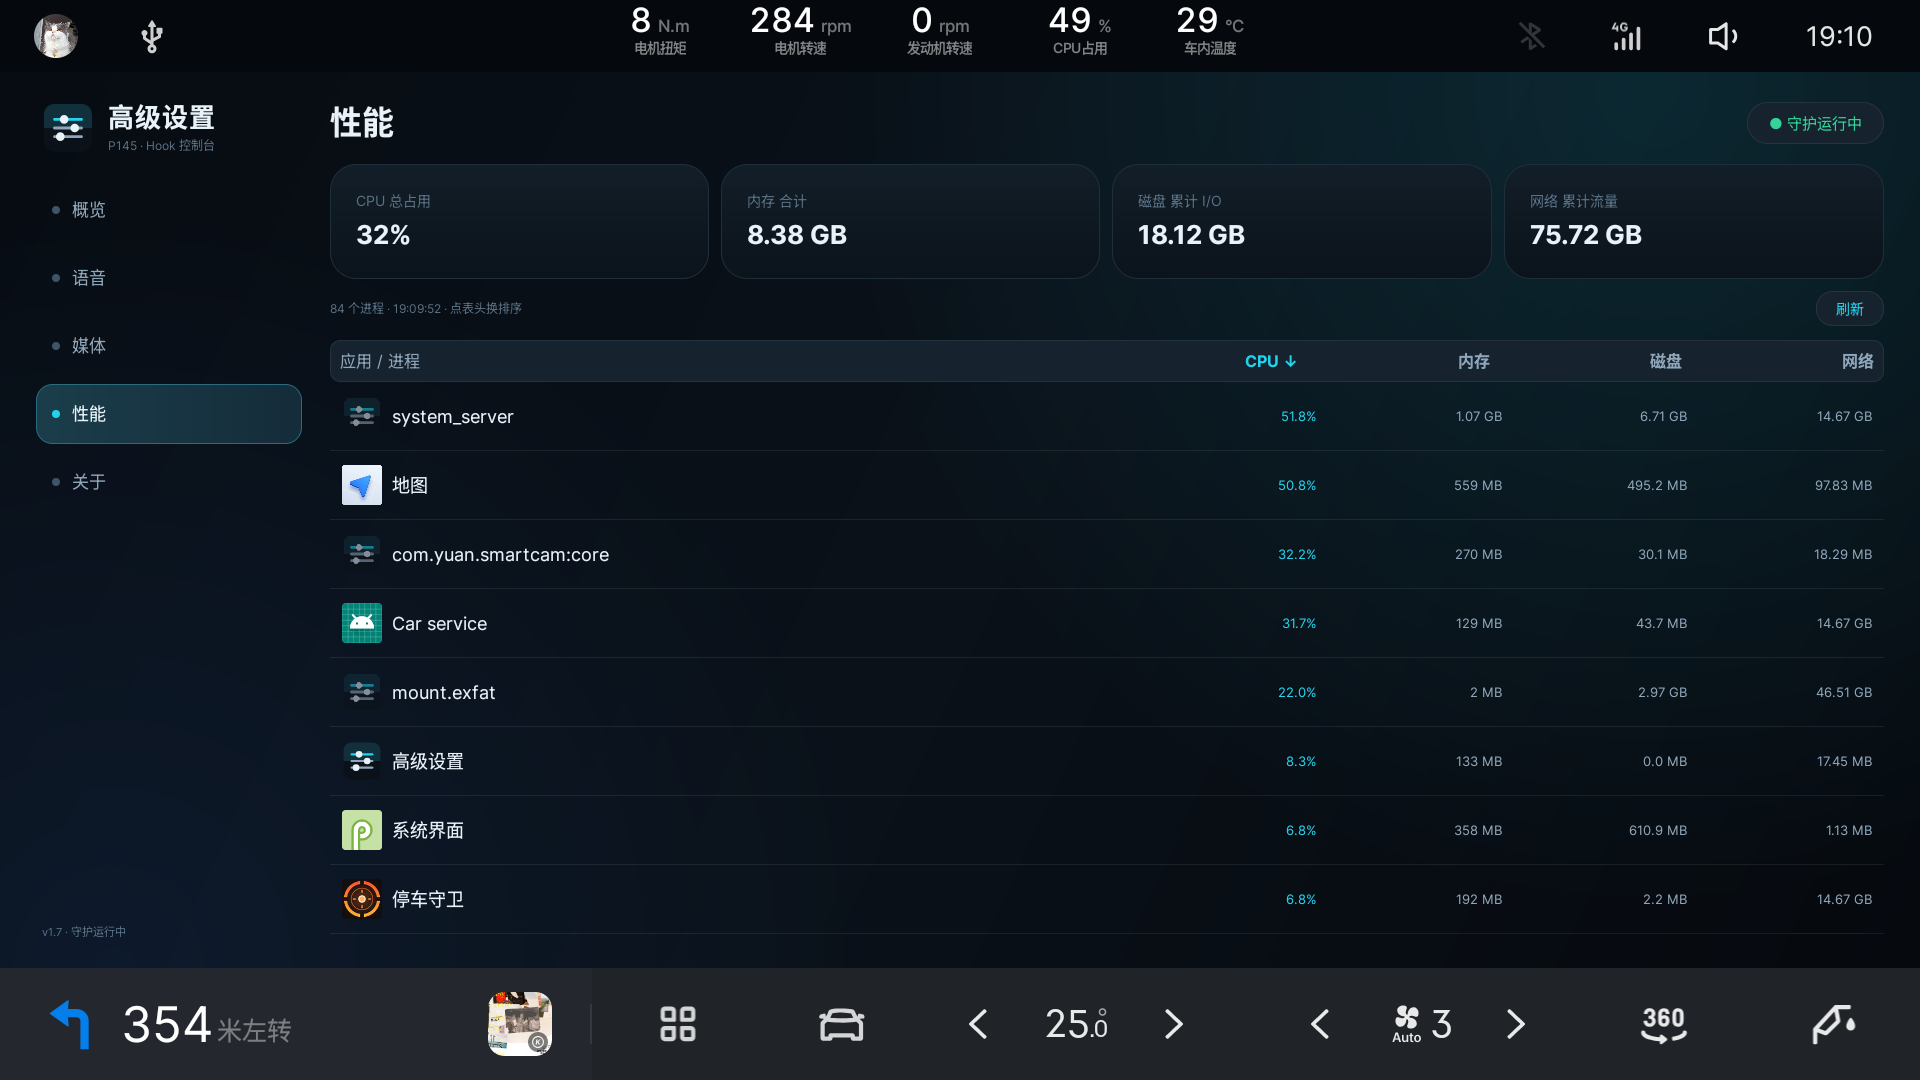
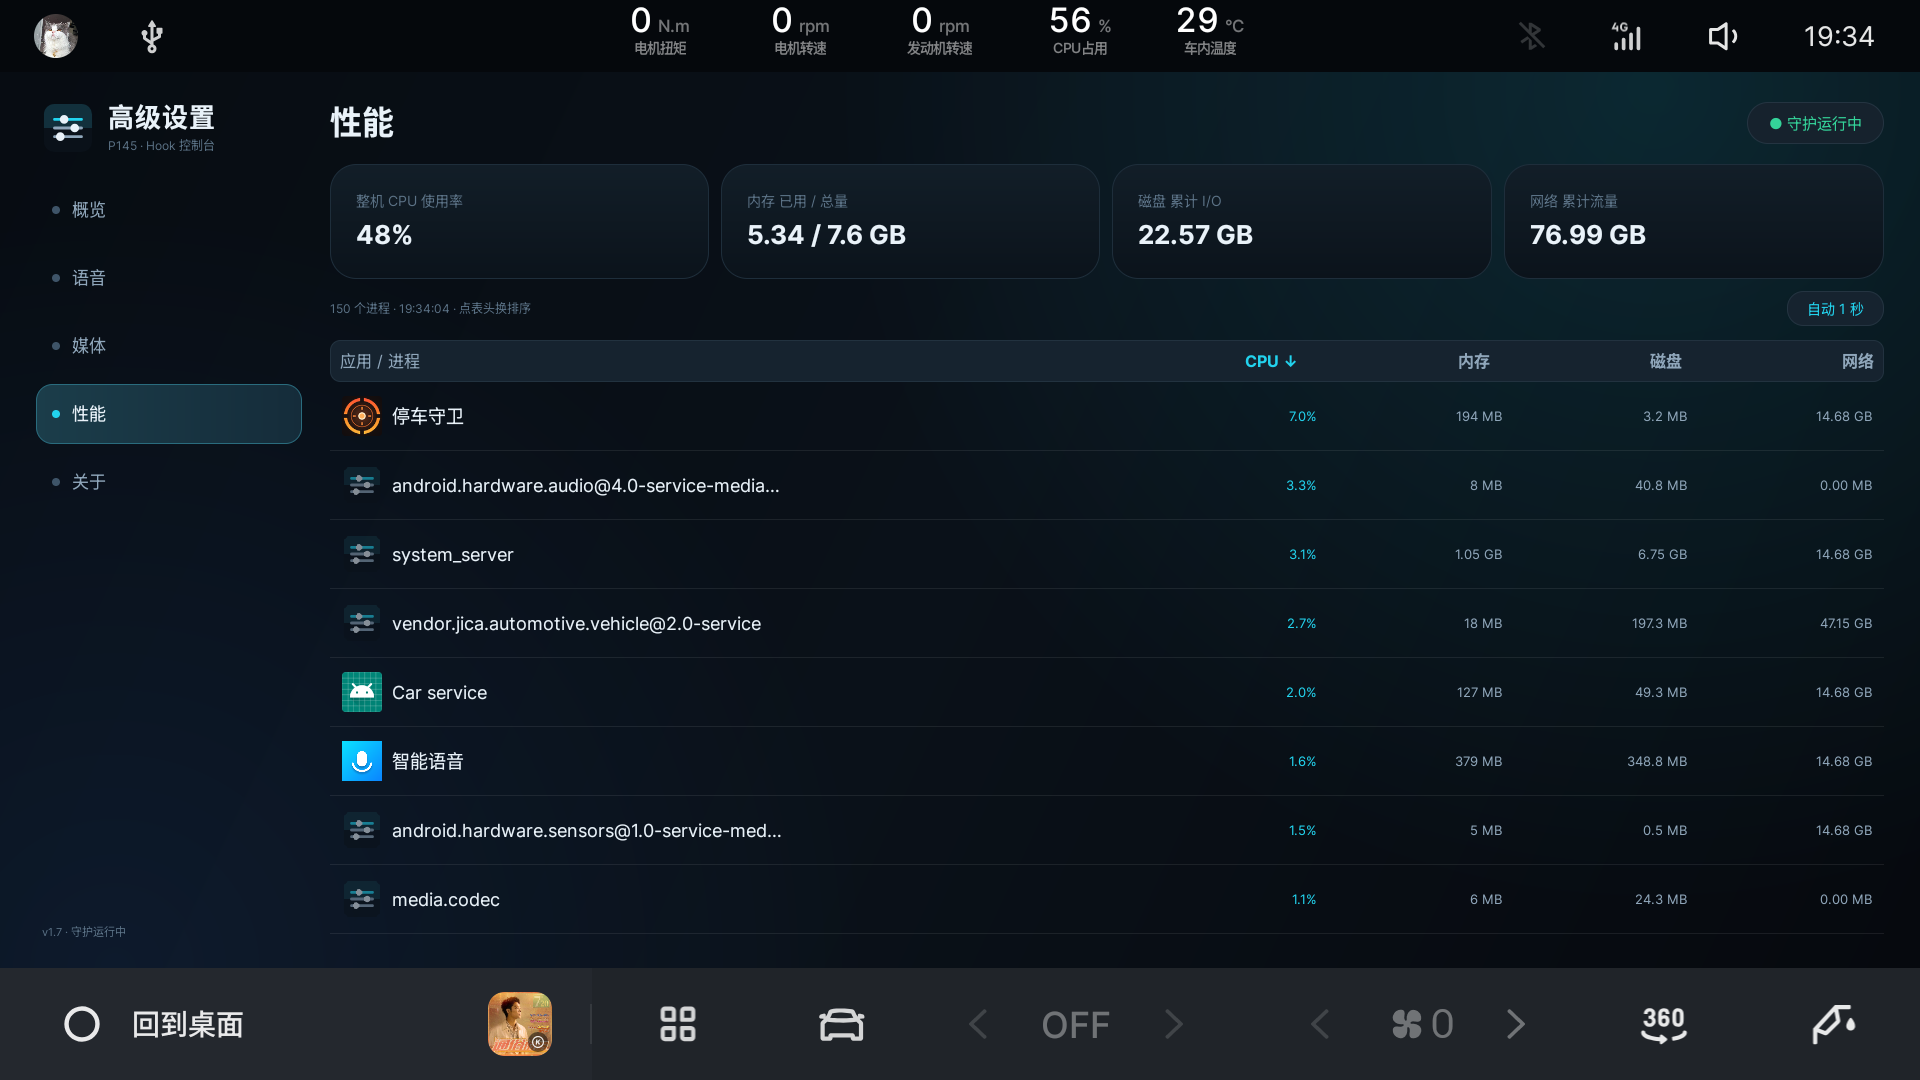
fix(perf): CPU 总量改用 /proc/stat 整机口径，内存卡显示已用/总量
原来的「CPU 总占用」= Σ(进程 CPU%) ÷ 核数，漏掉内核线程/中断/iowait，
比系统状态栏低一半。改为直接算 (Δtotal-Δidle)/Δtotal，与 EVCC/状态栏同口径；
实测 48% vs 状态栏 56%（采样瞬间不同）。

内存卡改用 /proc/meminfo 的 MemTotal / MemAvailable，显示 5.34 / 7.6 GB。
另：刷新按钮改成自动刷新档位（1s→2s→3s→关）；TERM=dumb 修掉 ps 的 ANSI 转义。

diff --git a/src/com/p145/advancedsettings/core/PerfMonitor.java b/src/com/p145/advancedsettings/core/PerfMonitor.java
@@ -30,7 +30,7 @@ public final class PerfMonitor {
 
     public static final String TAG = "P145ADV";
     public static final String SCRIPT = "perf_collect.sh";
-    private static final int SCRIPT_VER = 1;
+    private static final int SCRIPT_VER = 4;   // 4: TERM=dumb 去 ANSI
 
     /** 四个排行维度 */
     public enum Dim {
@@ -47,7 +47,7 @@ public final class PerfMonitor {
         public int pid;
         public int uid = -1;
         public String name = "";
-        public double cpu;      // %
+        public double cpu;      // 占整机 CPU 的百分比（所有核合计 = 100%）
         public double memMb;    // MB
         public double diskMb;   // MB（累计读写）
         public double netMb;    // MB（累计收发）
@@ -83,6 +83,11 @@ public final class PerfMonitor {
         public long at;
         public int processCount;
         public int ncpu = 4;
+        /** 整机 CPU 使用率（与系统状态栏 / EVCC 同口径） */
+        public double machineCpu;
+        /** 物理内存总量 / 已用（MB） */
+        public double memTotalMb;
+        public double memUsedMb;
         public final List<AppUsage> apps = new ArrayList<>();
         public String error = "";
 
@@ -188,7 +193,7 @@ public final class PerfMonitor {
             snap.error = "无输出";
             return;
         }
-        long total1 = 0, total2 = 0;
+        long total1 = 0, total2 = 0, idle1 = 0, idle2 = 0;
         Map<Integer, AppUsage> map = new HashMap<>();
         Map<Integer, Long> j2 = new HashMap<>();
         Map<Integer, Long> uidNet = new HashMap<>();
@@ -199,10 +204,17 @@ public final class PerfMonitor {
                 continue;
             }
             try {
-                if (line.startsWith("T ")) {
+                if (line.startsWith("M ")) {
+                    String[] p = line.split("\\s+");
+                    double totalKb = Long.parseLong(p[1]);
+                    double availKb = Long.parseLong(p[2]);
+                    snap.memTotalMb = totalKb / 1024.0;
+                    snap.memUsedMb = (totalKb - availKb) / 1024.0;
+                } else if (line.startsWith("T ")) {
                     String[] p = line.split("\\s+");
                     total1 = Long.parseLong(p[1]);
-                    snap.ncpu = Integer.parseInt(p[2]);
+                    idle1 = Long.parseLong(p[2]);
+                    snap.ncpu = Integer.parseInt(p[3]);
                 } else if (line.startsWith("A ")) {
                     // A pid user jiffies rss name...
                     String[] p = line.split("\\s+", 6);
@@ -225,6 +237,7 @@ public final class PerfMonitor {
                 } else if (line.startsWith("Z ")) {
                     String[] p = line.split("\\s+");
                     total2 = Long.parseLong(p[1]);
+                    idle2 = Long.parseLong(p[2]);
                 } else if (line.startsWith("J ")) {
                     String[] p = line.split("\\s+");
                     j2.put(Integer.parseInt(p[1]), Long.parseLong(p[2]));
@@ -234,9 +247,15 @@ public final class PerfMonitor {
         }
 
         long dTotal = total2 - total1;
+        long dIdle = idle2 - idle1;
         if (dTotal <= 0) {
             dTotal = 1;
         }
+        if (dIdle < 0) {
+            dIdle = 0;
+        }
+        // 整机使用率 = (总时间 - 空闲时间) / 总时间；口径与 top / 状态栏一致
+        snap.machineCpu = (dTotal - dIdle) * 100.0 / dTotal;
         for (AppUsage u : map.values()) {
             Long v2 = j2.get(u.pid);
             double j1 = u.cpu;   // 前面暂存的 jiffies1
@@ -245,7 +264,8 @@ public final class PerfMonitor {
                 if (dj < 0) {
                     dj = 0;
                 }
-                u.cpu = dj / (double) dTotal * snap.ncpu * 100.0;
+                // 占「整机」百分比：所有核的时间之和为 100%，单进程最多 100%
+                u.cpu = dj / (double) dTotal * 100.0;
             } else {
                 u.cpu = 0;
             }

diff --git a/src/com/p145/advancedsettings/MainActivity.java b/src/com/p145/advancedsettings/MainActivity.java
@@ -61,6 +61,22 @@ public class MainActivity extends Activity {
     private boolean perfBusy;
     private boolean perfLoaded;
     private final Map<PerfMonitor.Dim, View> dimViews = new LinkedHashMap<>();
+    private static final int[] PERF_SECS = {1, 2, 3, 0};   // 0 = 关闭
+    private int perfAutoIdx = 0;                            // 默认 1 秒
+    private TextView btnPerfAuto;
+
+    private final Runnable perfTick = new Runnable() {
+        @Override
+        public void run() {
+            int sec = PERF_SECS[perfAutoIdx];
+            if (sec <= 0 || !"perf".equals(current)) {
+                return;
+            }
+            loadPerf();
+            ui.postDelayed(this, sec * 1000L);
+        }
+    };
+
     private TextView sumCpu, sumMem, sumDisk, sumNet;
     private final Map<PerfMonitor.Dim, TextView> hdrViews = new LinkedHashMap<>();
     private final Map<String, String> labelCache = new HashMap<>();
@@ -198,12 +214,16 @@ public class MainActivity extends Activity {
                 tvSection.setText(TITLES[i]);
             }
         }
+        ui.removeCallbacks(perfTick);
         if ("perf".equals(key)) {
             if (!perfLoaded) {
                 perfLoaded = true;
                 loadPerf();
             } else {
                 renderPerf();
+            }
+            if (PERF_SECS[perfAutoIdx] > 0) {
+                ui.postDelayed(perfTick, PERF_SECS[perfAutoIdx] * 1000L);
             }
         }
         if (remember) {
@@ -385,14 +405,25 @@ public class MainActivity extends Activity {
         renderPerf();
     }
 
+    private void updatePerfAutoBtn() {
+        if (btnPerfAuto == null) {
+            return;
+        }
+        int sec = PERF_SECS[perfAutoIdx];
+        if (sec > 0) {
+            btnPerfAuto.setText("自动 " + sec + " 秒");
+            btnPerfAuto.setTextColor(color(R.color.accent));
+        } else {
+            btnPerfAuto.setText("已关闭");
+            btnPerfAuto.setTextColor(color(R.color.text3));
+        }
+    }
+
     private void loadPerf() {
         if (perfBusy) {
             return;
         }
         perfBusy = true;
-        if (tvPerfStatus != null) {
-            tvPerfStatus.setText("采集中…（约 3~5 秒）");
-        }
         pool.execute(new Runnable() {
             @Override
             public void run() {
@@ -439,8 +470,8 @@ public class MainActivity extends Activity {
         }
 
         // 汇总
-        sumCpu.setText(String.format("%.0f%%", perfSnap.total(PerfMonitor.Dim.CPU) / Math.max(1, perfSnap.ncpu)));
-        sumMem.setText(mbText(perfSnap.total(PerfMonitor.Dim.MEM)));
+        sumCpu.setText(String.format("%.0f%%", perfSnap.machineCpu));
+        sumMem.setText(String.format("%.2f / %.1f GB", perfSnap.memUsedMb / 1024, perfSnap.memTotalMb / 1024));
         sumDisk.setText(mbText(perfSnap.total(PerfMonitor.Dim.DISK)));
         sumNet.setText(mbText(perfSnap.total(PerfMonitor.Dim.NET)));
 

diff --git a/README.md b/README.md
@@ -250,8 +250,8 @@ shell.exec("am start-foreground-service -n com.p145.advancedsettings/.GuardServi
 
 | 汇总卡 | 口径 |
 |---|---|
-| CPU 总占用 | 所有进程 CPU% 之和 ÷ 核数 |
-| 内存 合计 | 所有进程 RSS 之和 |
+| 整机 CPU 使用率 | 直接读 `/proc/stat`：`(Δtotal - Δidle - Δiowait) / Δtotal`，与系统状态栏 / EVCC 同口径 |
+| 内存 已用 / 总量 | `/proc/meminfo`：`MemTotal` 与 `MemTotal - MemAvailable` |
 | 磁盘 累计 I/O | `/proc/<pid>/io` 的 `read_bytes + write_bytes` |
 | 网络 累计流量 | `/proc/net/xt_qtaguid/stats` 按 uid 汇总（已去重） |
 
@@ -263,11 +263,14 @@ shell.exec("am start-foreground-service -n com.p145.advancedsettings/.GuardServi
 
 **口径说明**：
 
+- 列表里的 CPU 是**占整机**百分比（8 核合计 100%），所以各进程加起来会**远小于**顶部整机值 ——
+  差额是内核线程、中断、iowait 这些没归到用户进程的 CPU；
 - 磁盘 / 网络是**累计值**不是速率，只增不减；
 - 网络按 uid 统计，同一 uid 下的多个进程会显示同一个值；
 - 内存用 RSS 累加，共享库被重复计算，合计会大于物理内存；
 - 应用列约占一半宽度，其余四列等分；字号按车机屏放大（名称 18sp / 数值 17sp / 表头 16sp），一屏约 8 行；
-- 显示前 24 个进程（可滚动），点「刷新」重新采集（约 3~5 秒）。
+- 收集按钮是自动刷新档位开关：**自动 1 秒 → 2 秒 → 3 秒 → 关闭** 循环，默认 1 秒；
+- 显示前 24 个进程（可滚动）。
 
 ### 调试时防息屏
 
